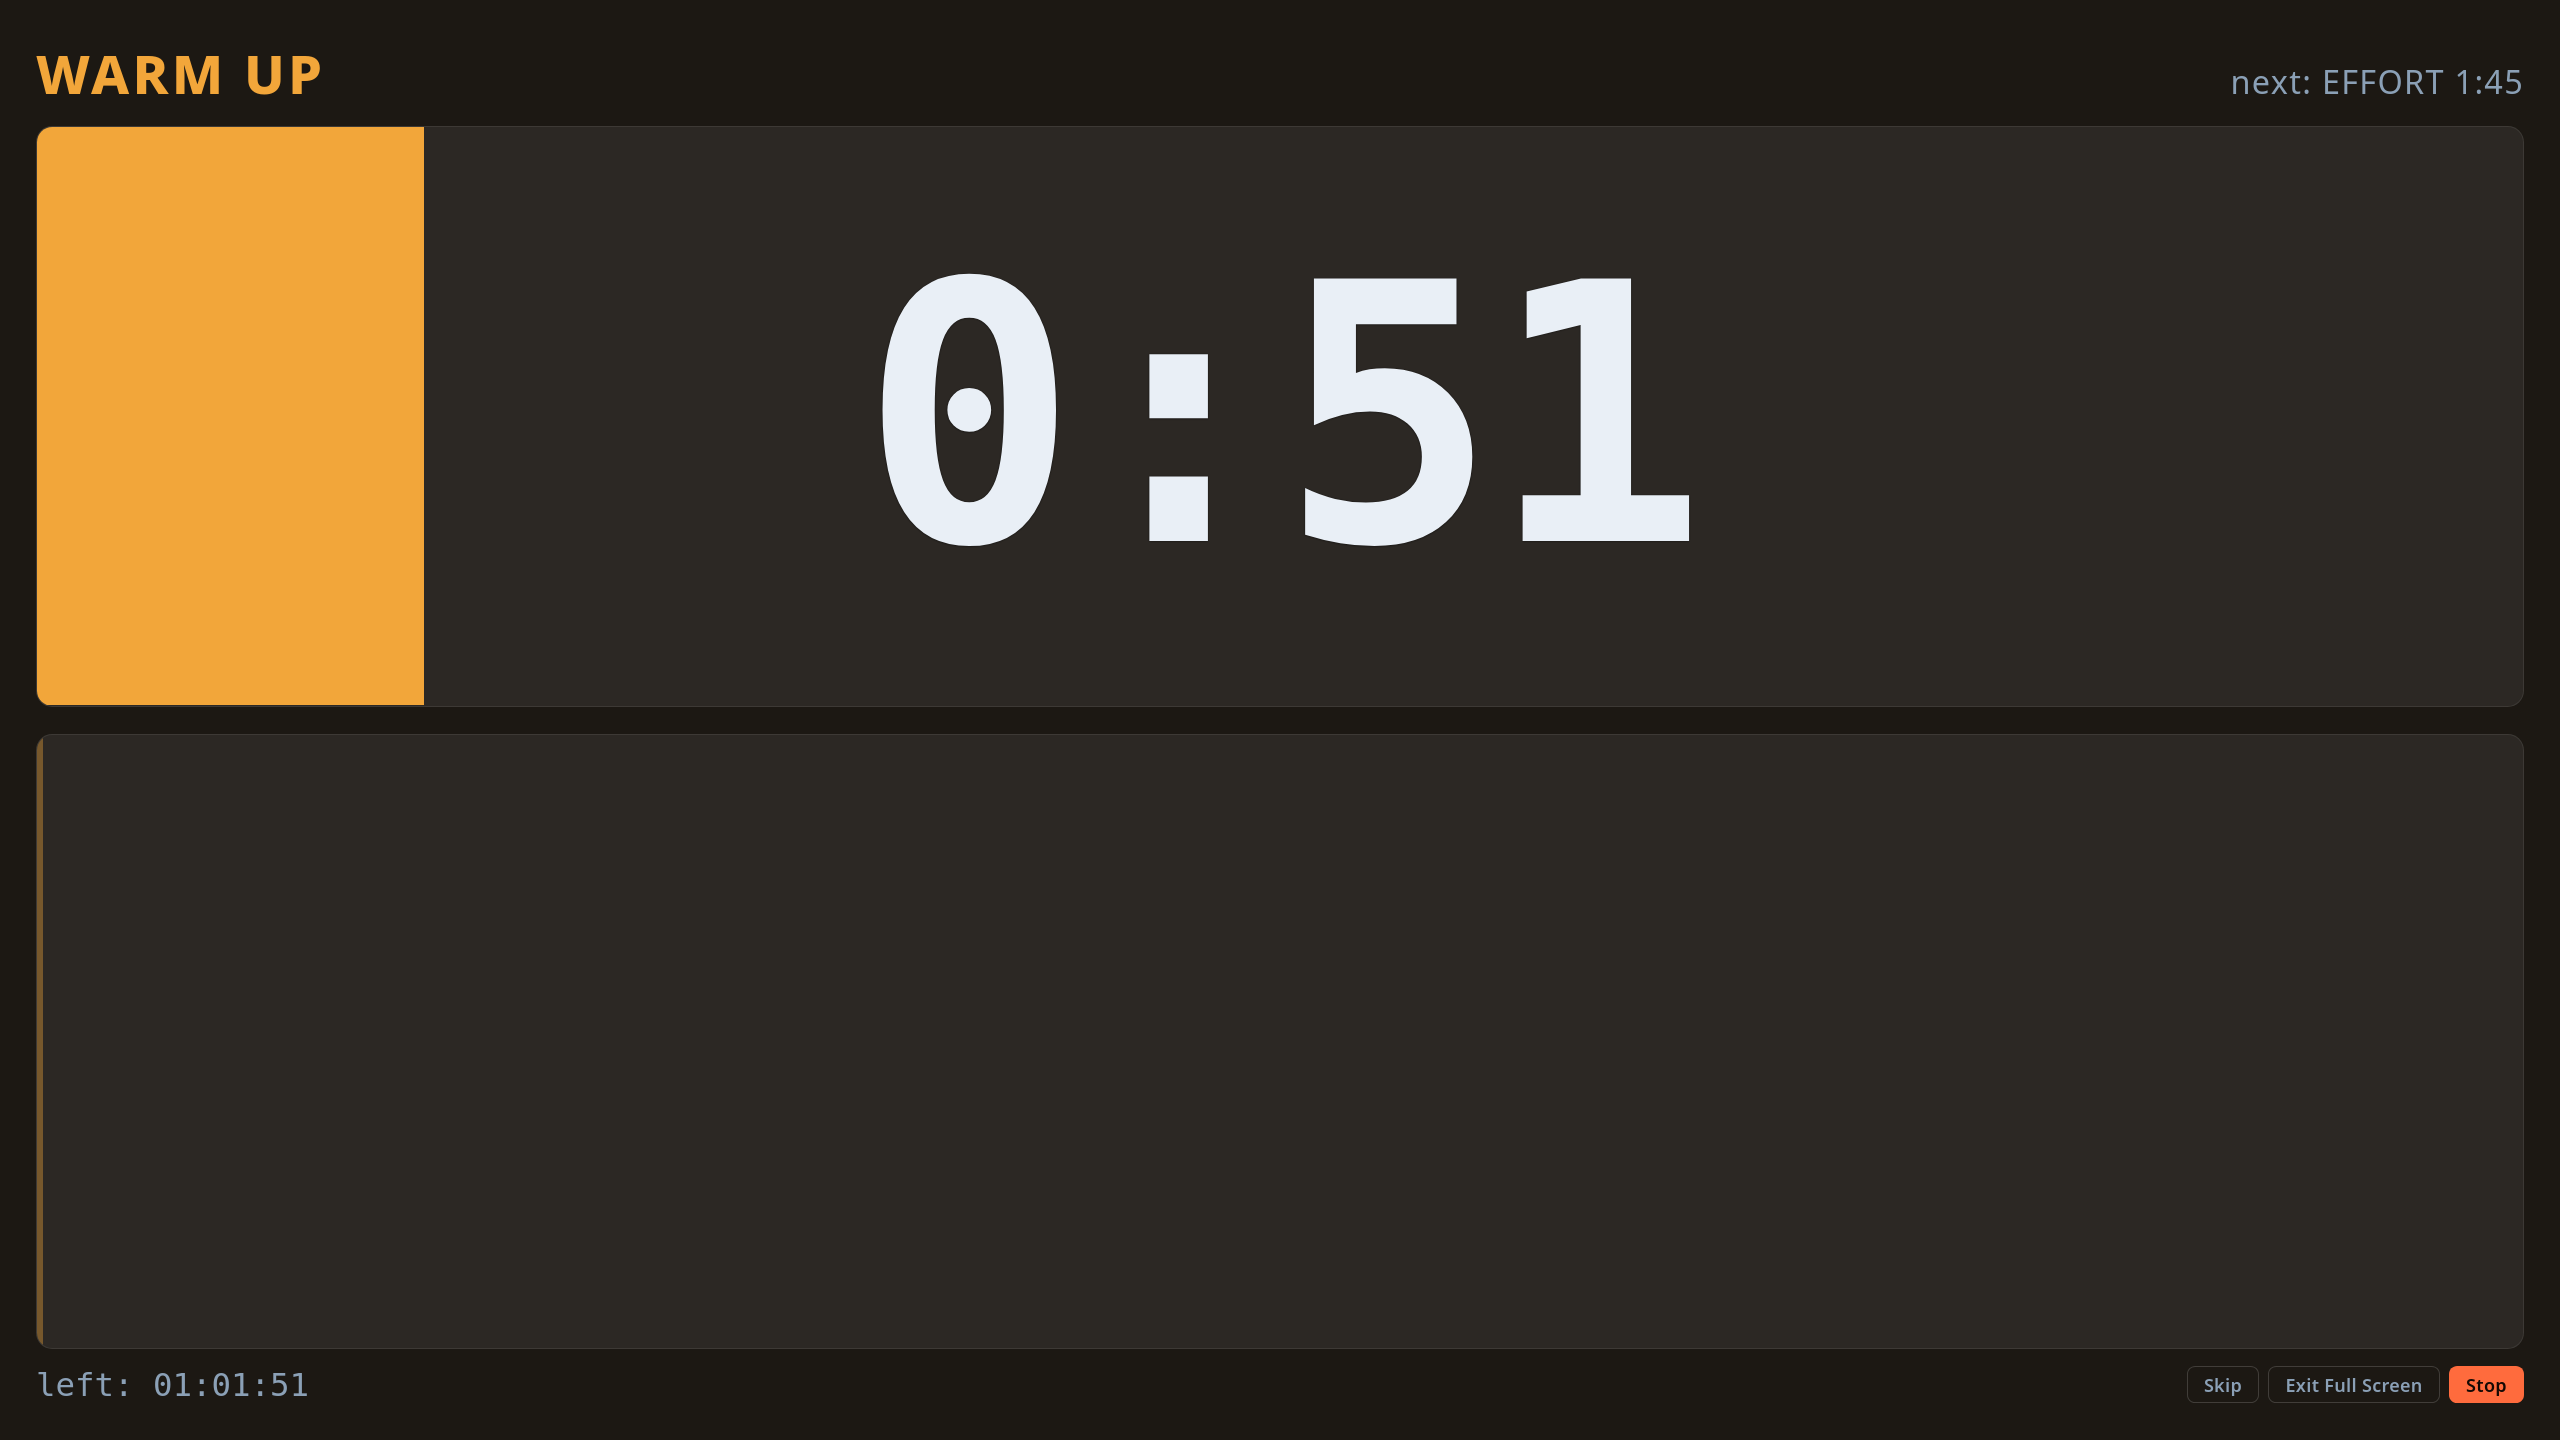
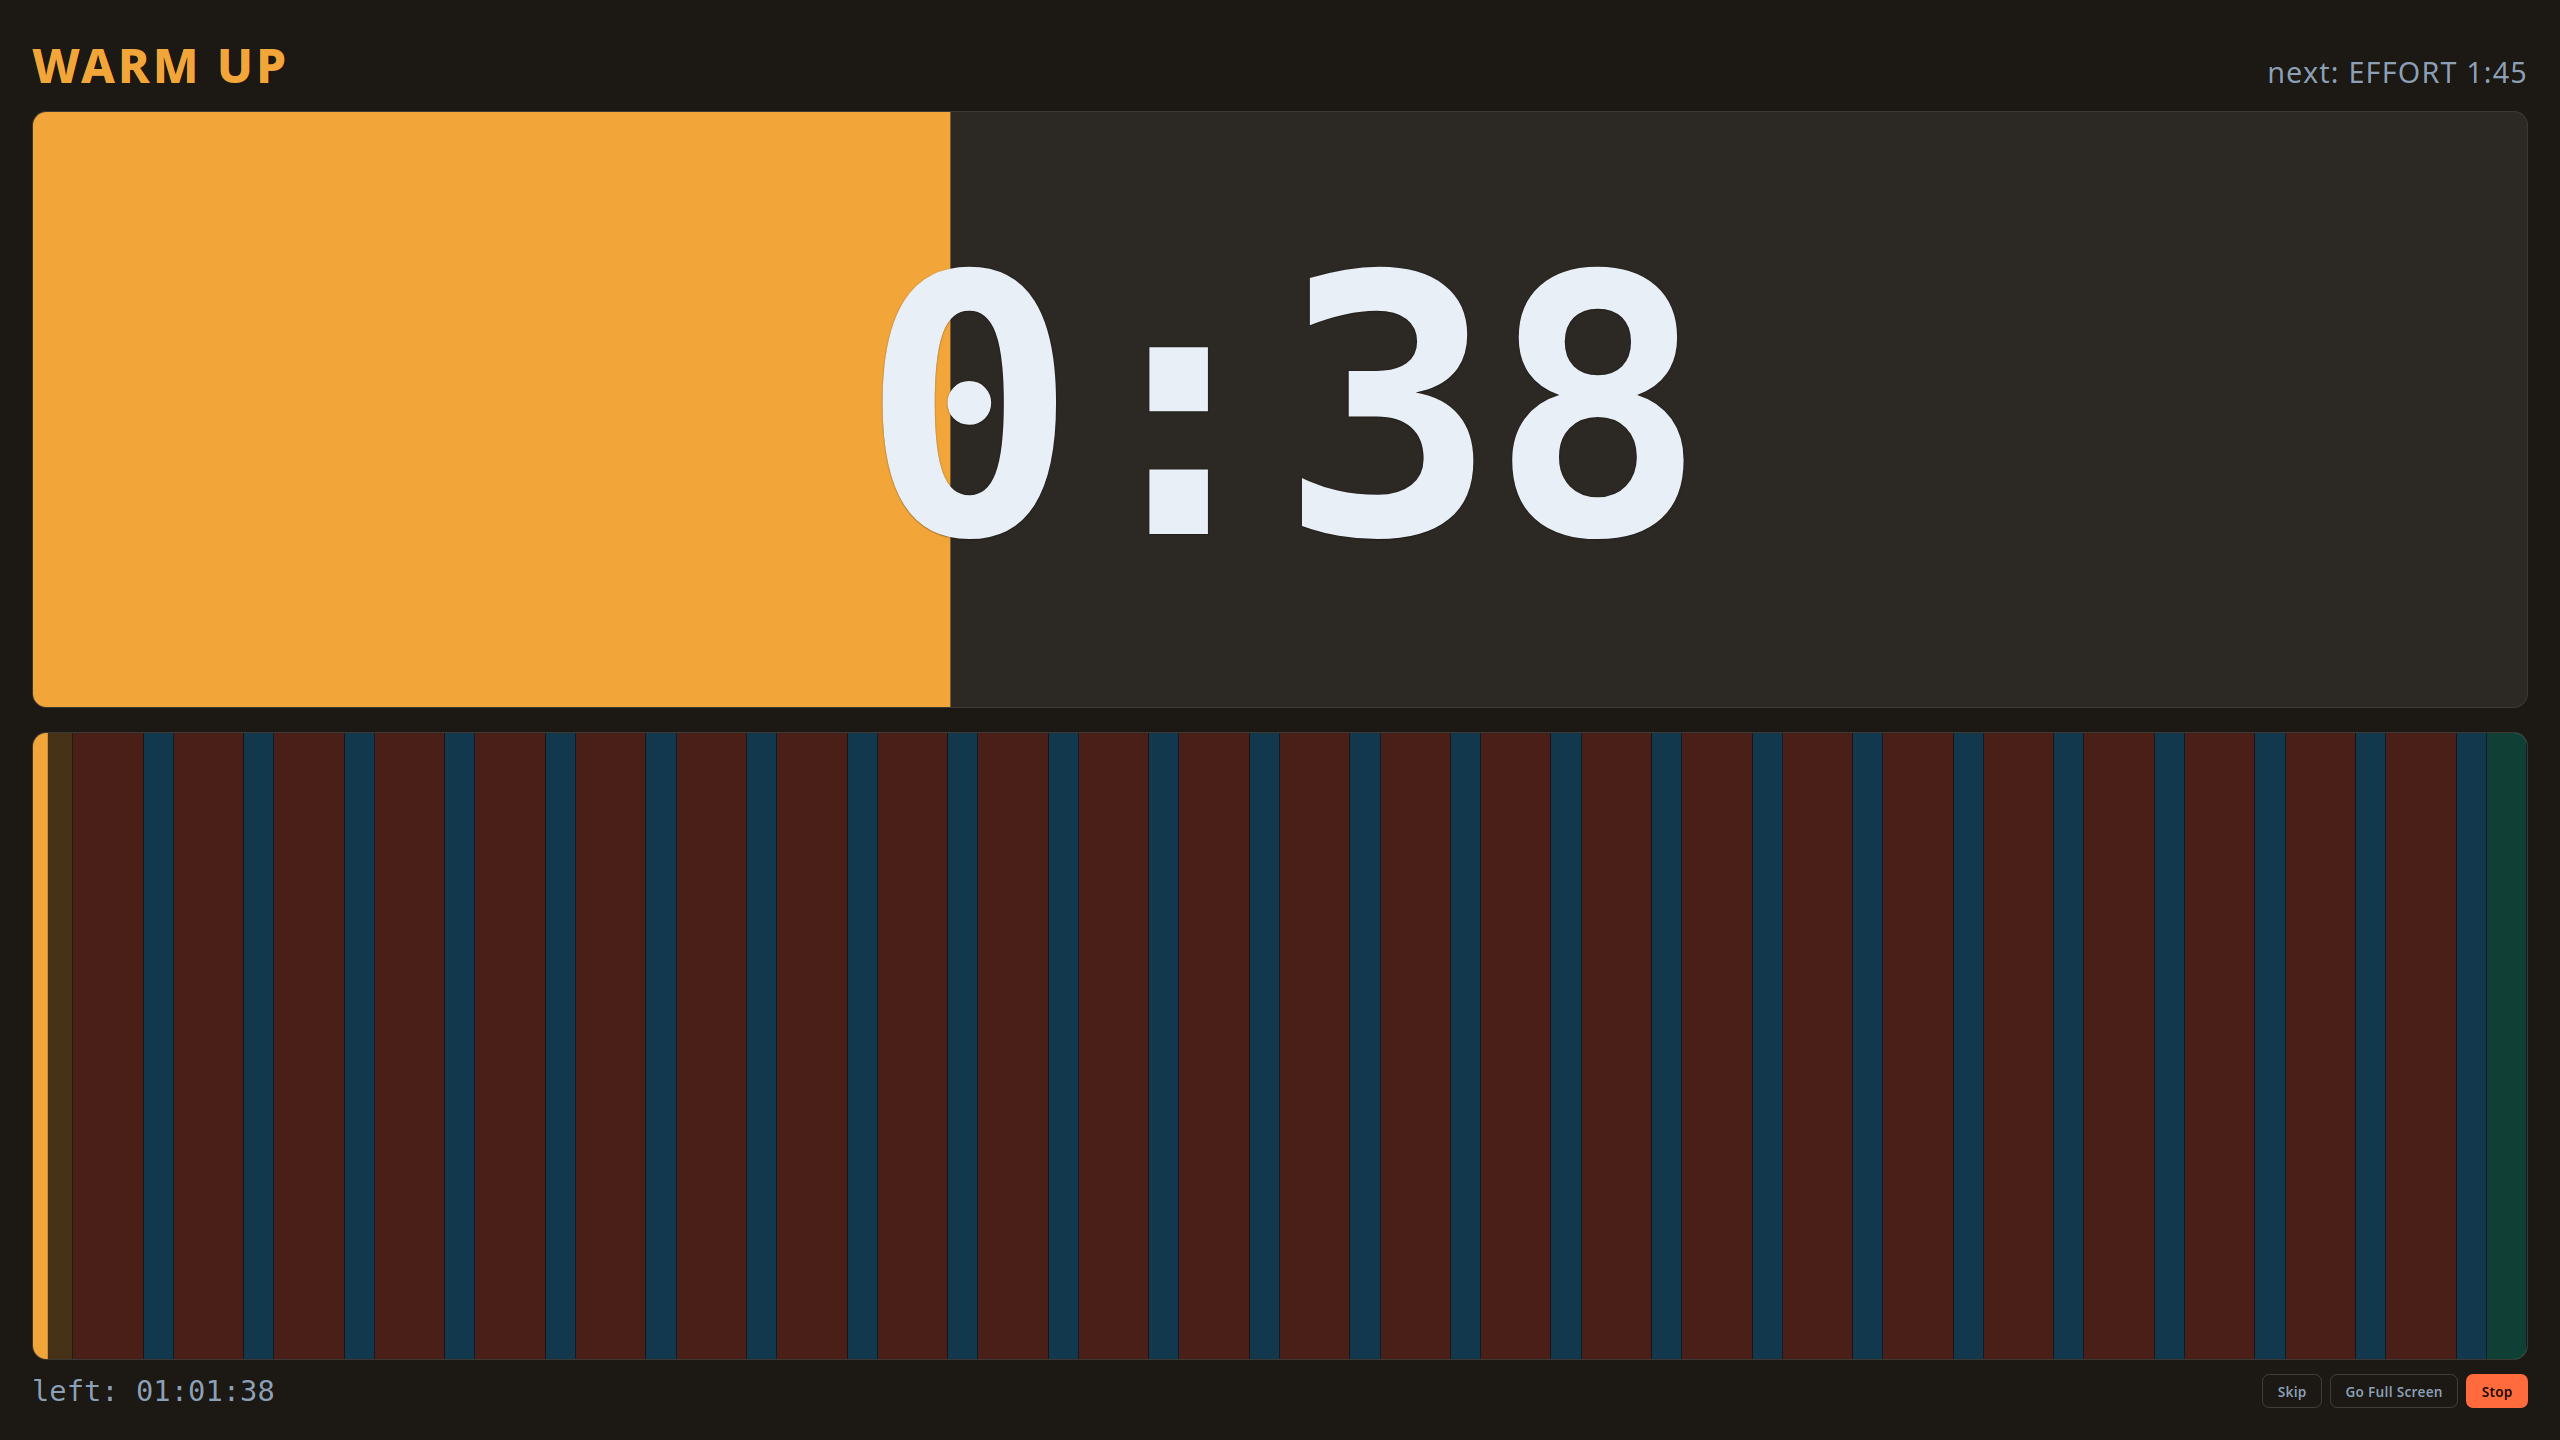
Draw the session as a strip of phase boxes
The bottom half of the workout screen was a single bar filling left to
right. It is now the whole session laid out end to end: one box per
phase, each as wide a share of the strip as its duration is of the
session, and in the colour of its kind. A veil covers what is left to
run, so the edge between vivid and dim is where you are; the repetition
counter stays over it, with a shadow that holds up over any box.

How the boxes are told apart follows how many there are: a real gap
while they are wide, an edge on each while they are narrow, and past a
thousand phases one plain band, since by then a box would be thinner
than a hairline -- and a session may hold twenty thousand of them, which
as elements would hang the tab.

Also retitle to "indoor row companion": the workouts have not been
intervals only since the Generic tab.

The workout screenshots are re-taken for the strip, the setup ones for
the tagline.

diff --git a/dolfin/dolfin.js b/dolfin/dolfin.js
@@ -101,6 +101,13 @@
   const MAX_PLAN_SEGMENTS = 999;
   const RANGE_MAX = 300; // the sliders cover 0..5 minutes; type for anything longer
 
+  // how the strip under the session is drawn, by how many phases it has to show:
+  // real gaps while the boxes are wide, an edge on each while they are narrow,
+  // and past the last count one plain band, since a box would be a hairline
+  const STRIP_GAPPED_BOXES = 12;
+  const STRIP_RULED_BOXES = 80;
+  const STRIP_MAX_BOXES = 1000;
+
   // both lists follow the on-screen order, so the first invalid field gets focus
   const TIME_FIELDS = [
     'warmup', 'effort', 'rest', 'cooldown', 'gen-warmup', 'gen-cooldown',
@@ -200,7 +207,8 @@
     phaseFill: $('phase-bar-fill'),
     countdown: $('countdown'),
     nextUp: $('next-up'),
-    overallFill: $('overall-fill'),
+    overallStrip: $('overall-strip'),
+    overallVeil: $('overall-veil'),
     overallRemaining: $('overall-remaining'),
     pausedOverlay: $('paused-overlay'),
     fullscreen: $('fullscreen'),
@@ -832,6 +840,31 @@
     }
   }
 
+  /** Draws the session as a row of boxes, one per phase, each as wide a share of
+      the strip as its duration is of the session, and in the colour of its kind.
+      Too many phases to tell apart and the strip is left as one band instead:
+      the veil over it reads the same either way. */
+  function buildStrip(timeline) {
+    const count = timeline.segs.length;
+    const strip = els.overallStrip;
+
+    strip.textContent = '';
+    strip.classList.toggle('plain', count > STRIP_MAX_BOXES);
+    strip.classList.toggle('ruled', count > STRIP_GAPPED_BOXES && count <= STRIP_RULED_BOXES);
+    strip.style.setProperty('--seg-gap', count <= STRIP_GAPPED_BOXES ? '3px' : '0px');
+    if (count > STRIP_MAX_BOXES) return;
+
+    // one insertion, so a long session does not lay the strip out over and over
+    const batch = document.createDocumentFragment();
+    timeline.segs.forEach((seg) => {
+      const box = document.createElement('div');
+      box.className = 'strip-seg strip-seg-' + seg.kind;
+      box.style.flexGrow = String(seg.ms);
+      batch.appendChild(box);
+    });
+    strip.appendChild(batch);
+  }
+
   function setBar(el, ratio) {
     const p = Math.min(1, Math.max(0, ratio));
     el.style.transform = 'scaleX(' + p.toFixed(5) + ')';
@@ -879,6 +912,10 @@
       lastChars: -1,
       lastPercent: -1,
     };
+
+    buildStrip(timeline);
+    // nothing run yet, so the veil covers the whole strip
+    setBar(els.overallVeil, 1);
 
     els.endBtn.textContent = 'Stop';
     els.skipBtn.hidden = !cfg.allowSkip;
@@ -939,7 +976,8 @@
     setBigText(els.repCounter, repLabel(seg), 7);
     setText(els.nextUp, nextLabel(session.index));
     setBar(els.phaseFill, inPhase / seg.ms);
-    setBar(els.overallFill, elapsed / session.totalMs);
+    // the veil covers what is left, so it shrinks towards the right as time goes
+    setBar(els.overallVeil, 1 - elapsed / session.totalMs);
     setText(els.overallRemaining, formatHMS(Math.ceil((session.totalMs - elapsed) / 1000)));
 
     els.session.classList.toggle('urgent', notice);
@@ -964,7 +1002,7 @@
     setText(els.nextUp, '');
     setText(els.overallRemaining, '00:00:00');
     setBar(els.phaseFill, 1);
-    setBar(els.overallFill, 1);
+    setBar(els.overallVeil, 0);
     els.phaseBar.setAttribute('aria-valuenow', '100');
     els.pausedOverlay.hidden = true;
     els.endBtn.textContent = 'Home';
@@ -1016,6 +1054,7 @@
     els.session.classList.remove('urgent');
     els.session.hidden = true;
     els.setup.hidden = false;
+    els.overallStrip.textContent = ''; // a long session holds a lot of boxes
     els.body.classList.remove('screen-session');
     els.body.classList.add('screen-setup');
     if (els.body.dataset.phase) {

diff --git a/dolfin/style.css b/dolfin/style.css
@@ -502,9 +502,47 @@ body.screen-session {
 
 .phase-bar-fill { background: var(--phase); }
 
-.overall-fill {
+/* the whole session laid out end to end: one box per phase, each taking the
+   share of the width its duration takes of the session, in the colour of its
+   kind. The bar clips it, so the ends come out rounded with it. */
+.strip {
+  position: absolute;
+  inset: 0;
+  display: flex;
+  gap: 0 var(--seg-gap, 0px);
+}
+
+.strip-seg {
+  /* the basis is zero and the grow factor is the phase's length in ms, set by
+     buildStrip(), so the boxes share the width in proportion */
+  flex: 1 1 0;
+  min-width: 0;
+}
+
+/* too many phases to draw one by one: the strip stays a single band that
+   follows the phase running, which is what the bar was before */
+.strip.plain {
   background: rgba(255, 255, 255, 0.28);
   background: color-mix(in oklab, var(--phase) 38%, transparent);
+}
+
+/* while the boxes are too narrow for a gap but wide enough to tell apart, an
+   edge keeps two phases of the same kind from reading as one */
+.strip.ruled .strip-seg { box-shadow: inset -1px 0 0 rgba(5, 7, 10, 0.55); }
+
+.strip-seg-warmup   { background: var(--color-warmup, #f2a63a); }
+.strip-seg-effort   { background: var(--color-effort, #ff5c3d); }
+.strip-seg-rest     { background: var(--color-rest, #35b7ff); }
+.strip-seg-cooldown { background: var(--color-cooldown, #2fd6a6); }
+
+/* what is left to run, dimmed: it shrinks to the right as the session goes, so
+   its edge is where you are */
+.strip-veil {
+  position: absolute;
+  inset: 0;
+  transform-origin: right center;
+  background: rgba(5, 7, 10, 0.72);
+  will-change: transform;
 }
 
 /* the reading sits over the bar, so it needs to survive both track and fill.
@@ -537,6 +575,9 @@ body.screen-session {
   font-weight: 700;
   line-height: 1;
   font-variant-numeric: tabular-nums;
+  /* sized in em, so it holds up over whichever box it happens to sit on --
+     the one on .bar-label is worth a pixel at the size that box's text is */
+  text-shadow: 0 0.02em 0.05em rgba(0, 0, 0, 0.75), 0 0 0.14em rgba(0, 0, 0, 0.55);
 }
 
 /* the "@ 20 spm" a generic plan may carry: one reading with the countdown of the

diff --git a/dolfin/index.html b/dolfin/index.html
@@ -24,7 +24,7 @@
       <img class="logo" src="./icon.svg" alt="" width="56" height="56">
       <div>
         <h1>dolfin</h1>
-        <p class="tagline">indoor row interval companion</p>
+        <p class="tagline">indoor row companion</p>
       </div>
     </header>
 
@@ -309,7 +309,9 @@
 
   <div class="half half-bottom">
     <div class="bar overall-bar">
-      <div class="bar-fill overall-fill" id="overall-fill"></div>
+      <!-- one box per phase, built by buildStrip() from the timeline -->
+      <div class="strip" id="overall-strip"></div>
+      <div class="strip-veil" id="overall-veil"></div>
       <div class="bar-label"><span class="rep-counter" id="rep-counter"></span></div>
     </div>
 

diff --git a/README.md b/README.md
@@ -1,6 +1,6 @@
 # dolfin
 
-**dolfin** is your indoor row interval companion
+**dolfin** is your indoor row companion
 
 
 ## Overview
@@ -218,9 +218,16 @@ The screen is split into two horizontal bands:
 - the top half shows the current phase name (and the next one up),
   with a progress bar, a timer counting down the current phase,
   and the phase label, if it has one;
-- the bottom half shows the overall workout progress,
-  with a progress bar, the current repetition / total repetitions,
-  and the time remaining for completing the workout.
+- the bottom half is the whole workout laid out end to end:
+  one box per phase, each as wide a share of the screen as its duration
+  is of the session, and in the colour of its phase.
+  What is still to come is dimmed, so the edge between vivid and dim
+  is where you are. Over it sit the current repetition / total repetitions,
+  and below it the time remaining for completing the workout.
+
+> [!NOTE]
+> A workout with more than a thousand phases is drawn as a single band
+> rather than as boxes, since each box would be thinner than a hairline.
 
 On the bottom right corner there are three buttons:
 

diff --git a/docs/CHANGELOG.md b/docs/CHANGELOG.md
@@ -24,6 +24,12 @@ All notable changes to this project will be documented in this file.
 
 ### Changed
 
+- The bottom half of the Workout screen is now the whole session laid out
+  end to end, one box per phase, each proportional to its duration and in
+  the colour of its phase; what is left to run is dimmed, replacing the
+  single progress bar.
+- The tagline is now "indoor row companion", the workouts no longer being
+  intervals only.
 - The setup screen is now split in four tabs: "Intervals", "Generic",
   "Programs", and "Customizations"; the tab strip wraps to two rows
   on a narrow screen.
